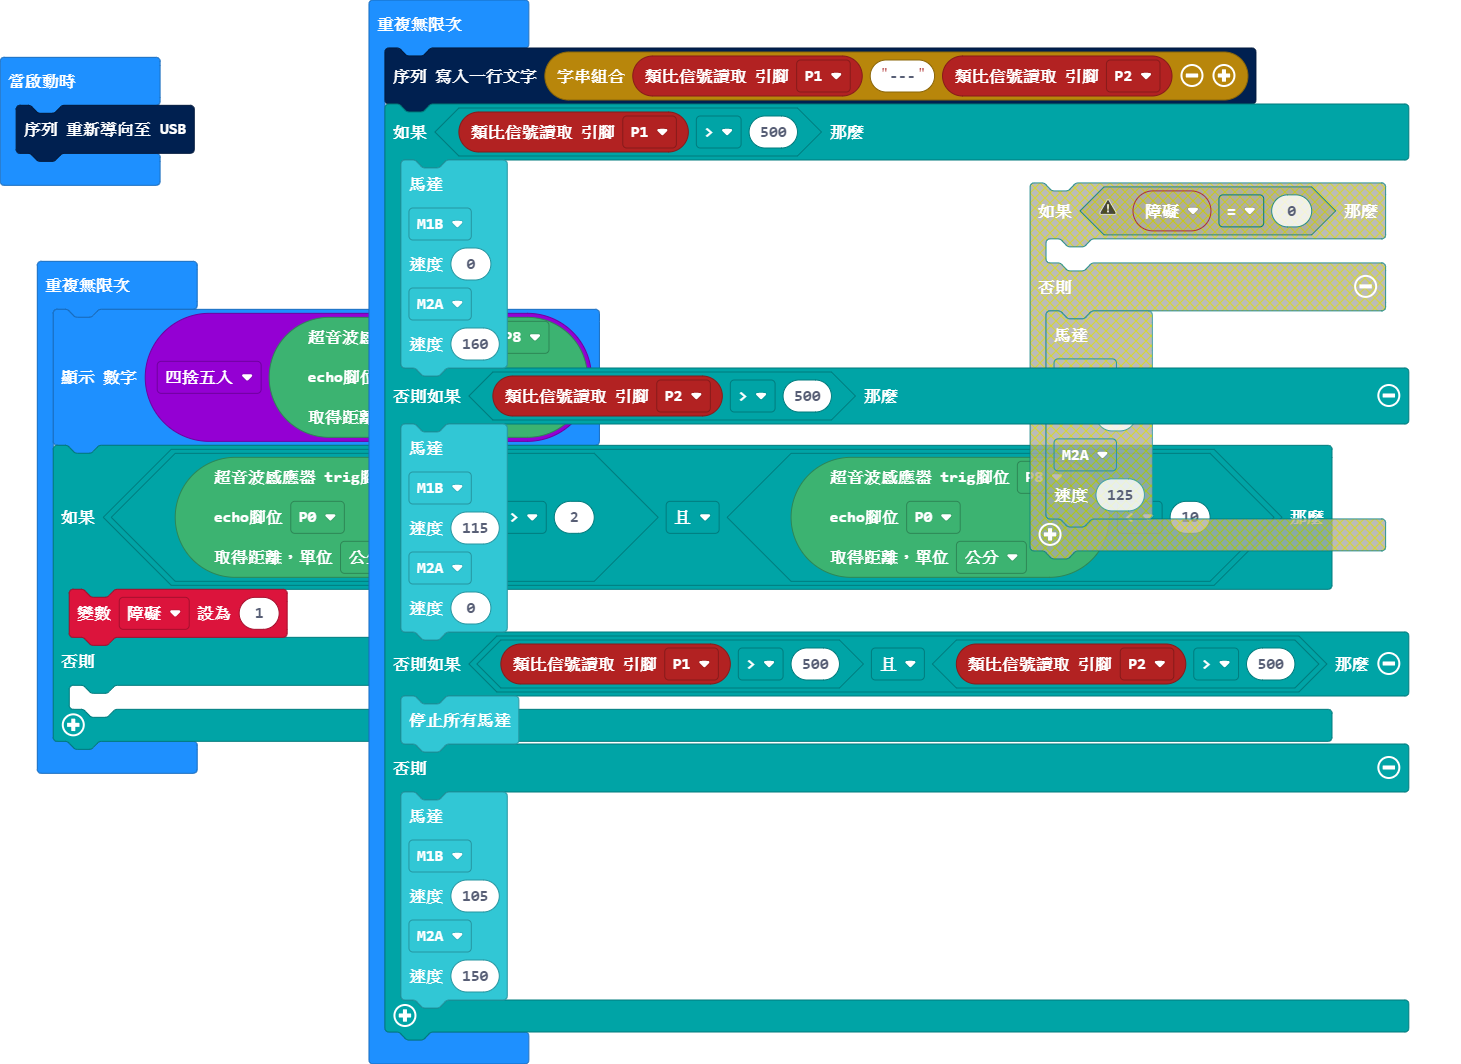
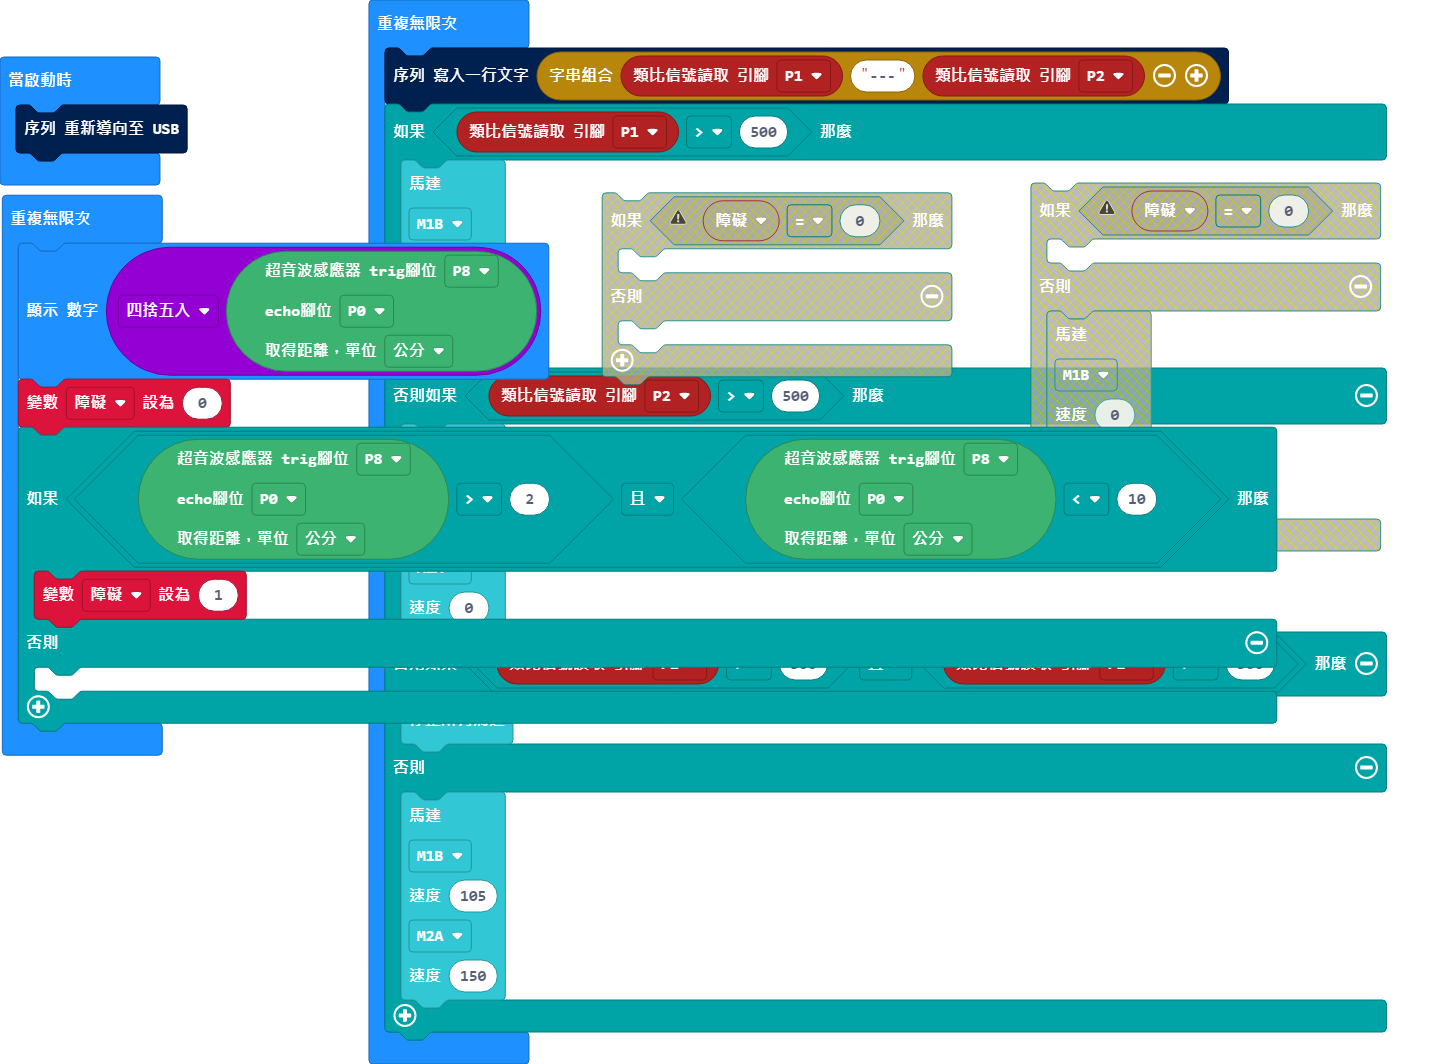
Update main.blocks, main.ts

Changed region(s): [[0.0, 0.0, 0.9791, 1.0], [0.3366, 0.9615, 0.3672, 1.0], [0.9179, 0.6203, 0.9485, 0.6513]]

diff --git a/main.ts b/main.ts
@@ -33,6 +33,7 @@ basic.forever(function () {
     DigitalPin.P0,
     sensors.PingUnit.Centimeters
     )))
+    障礙 = 0
     if (sensors.sensor_ping(
     DigitalPin.P8,
     DigitalPin.P0,
